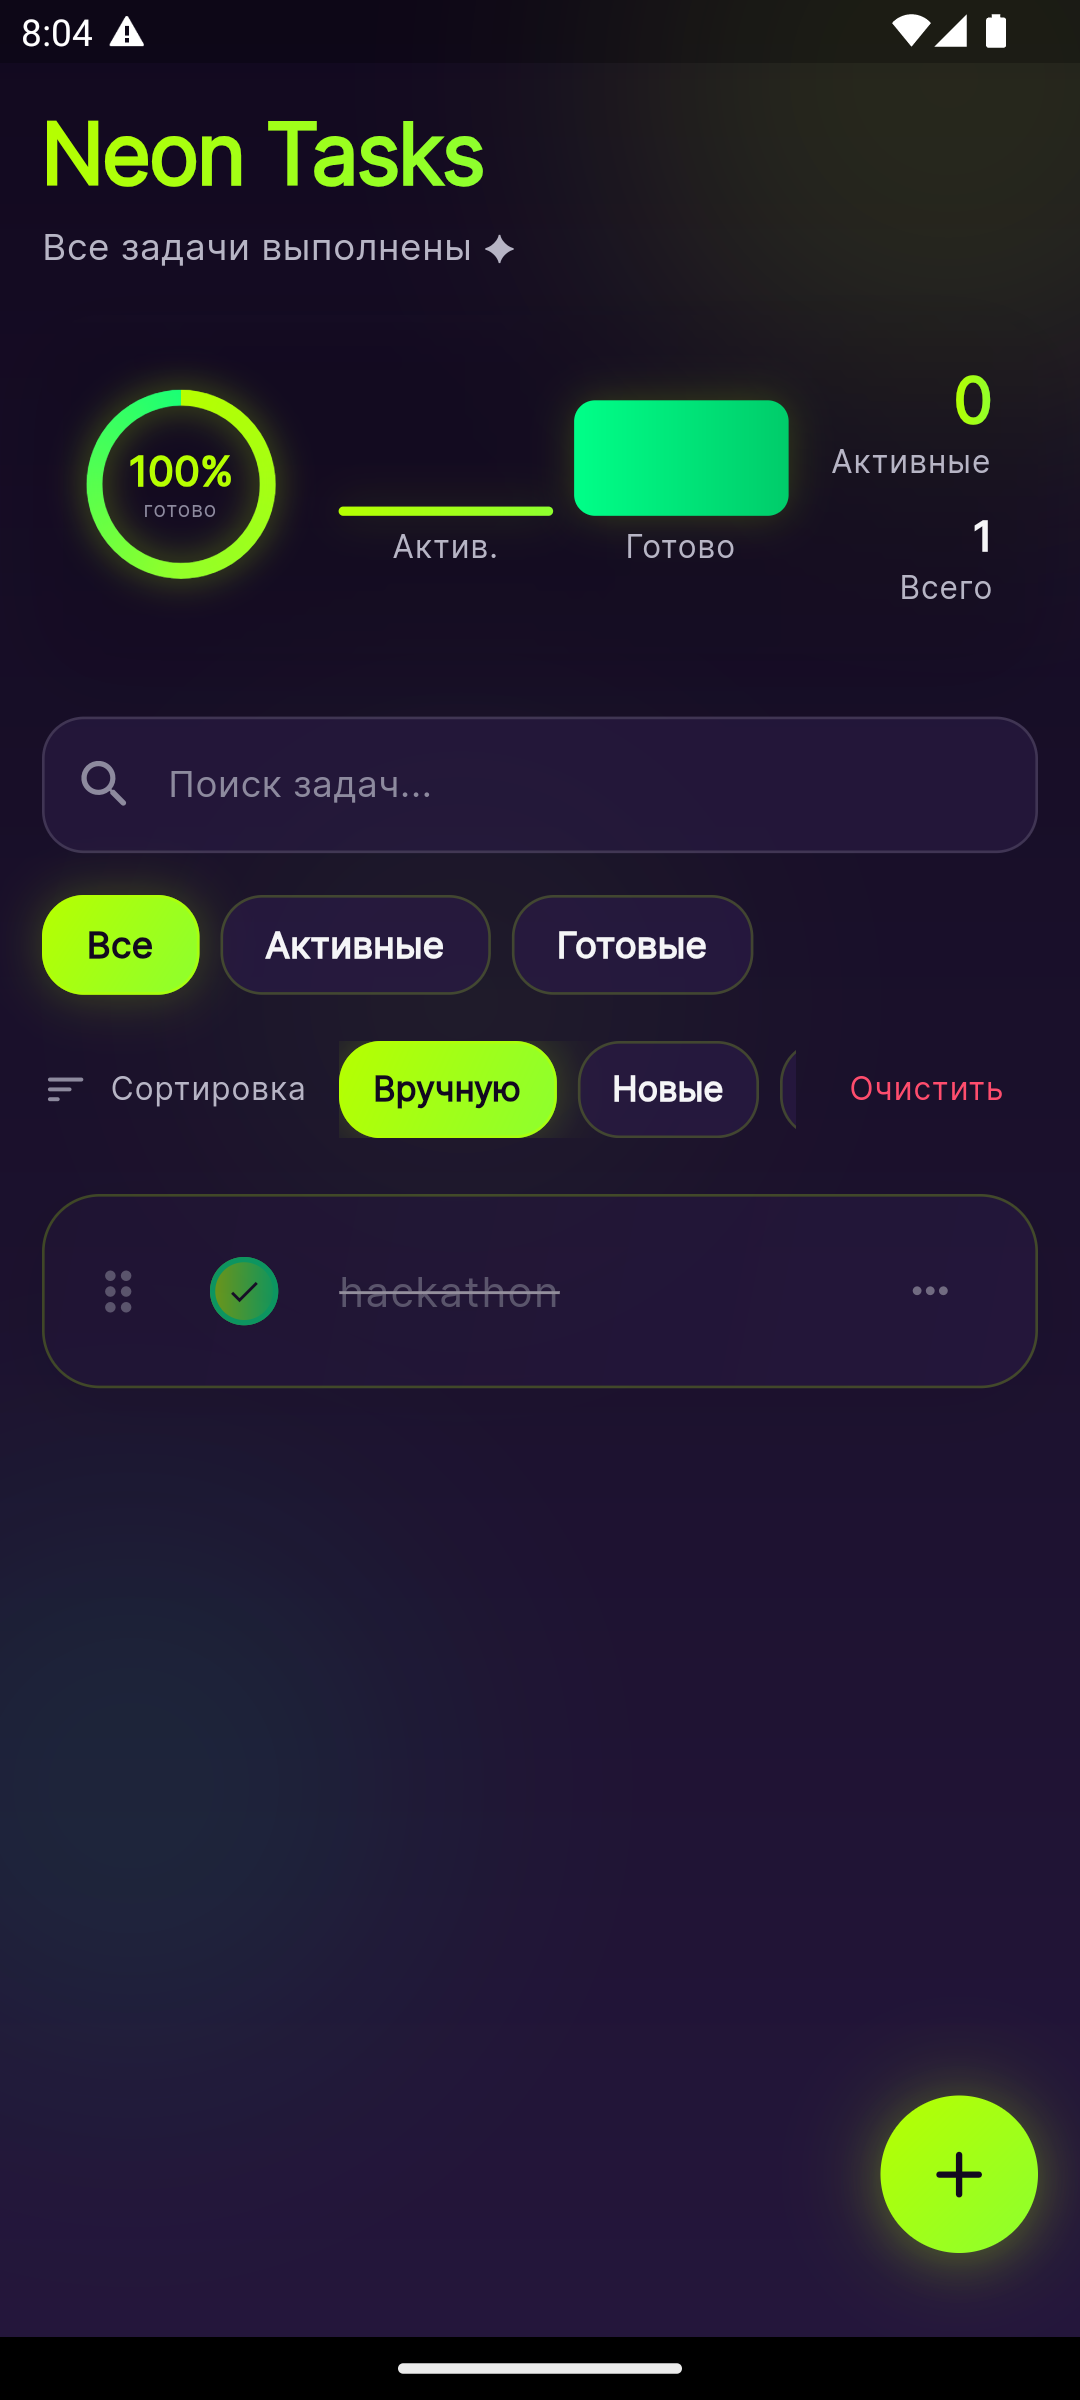
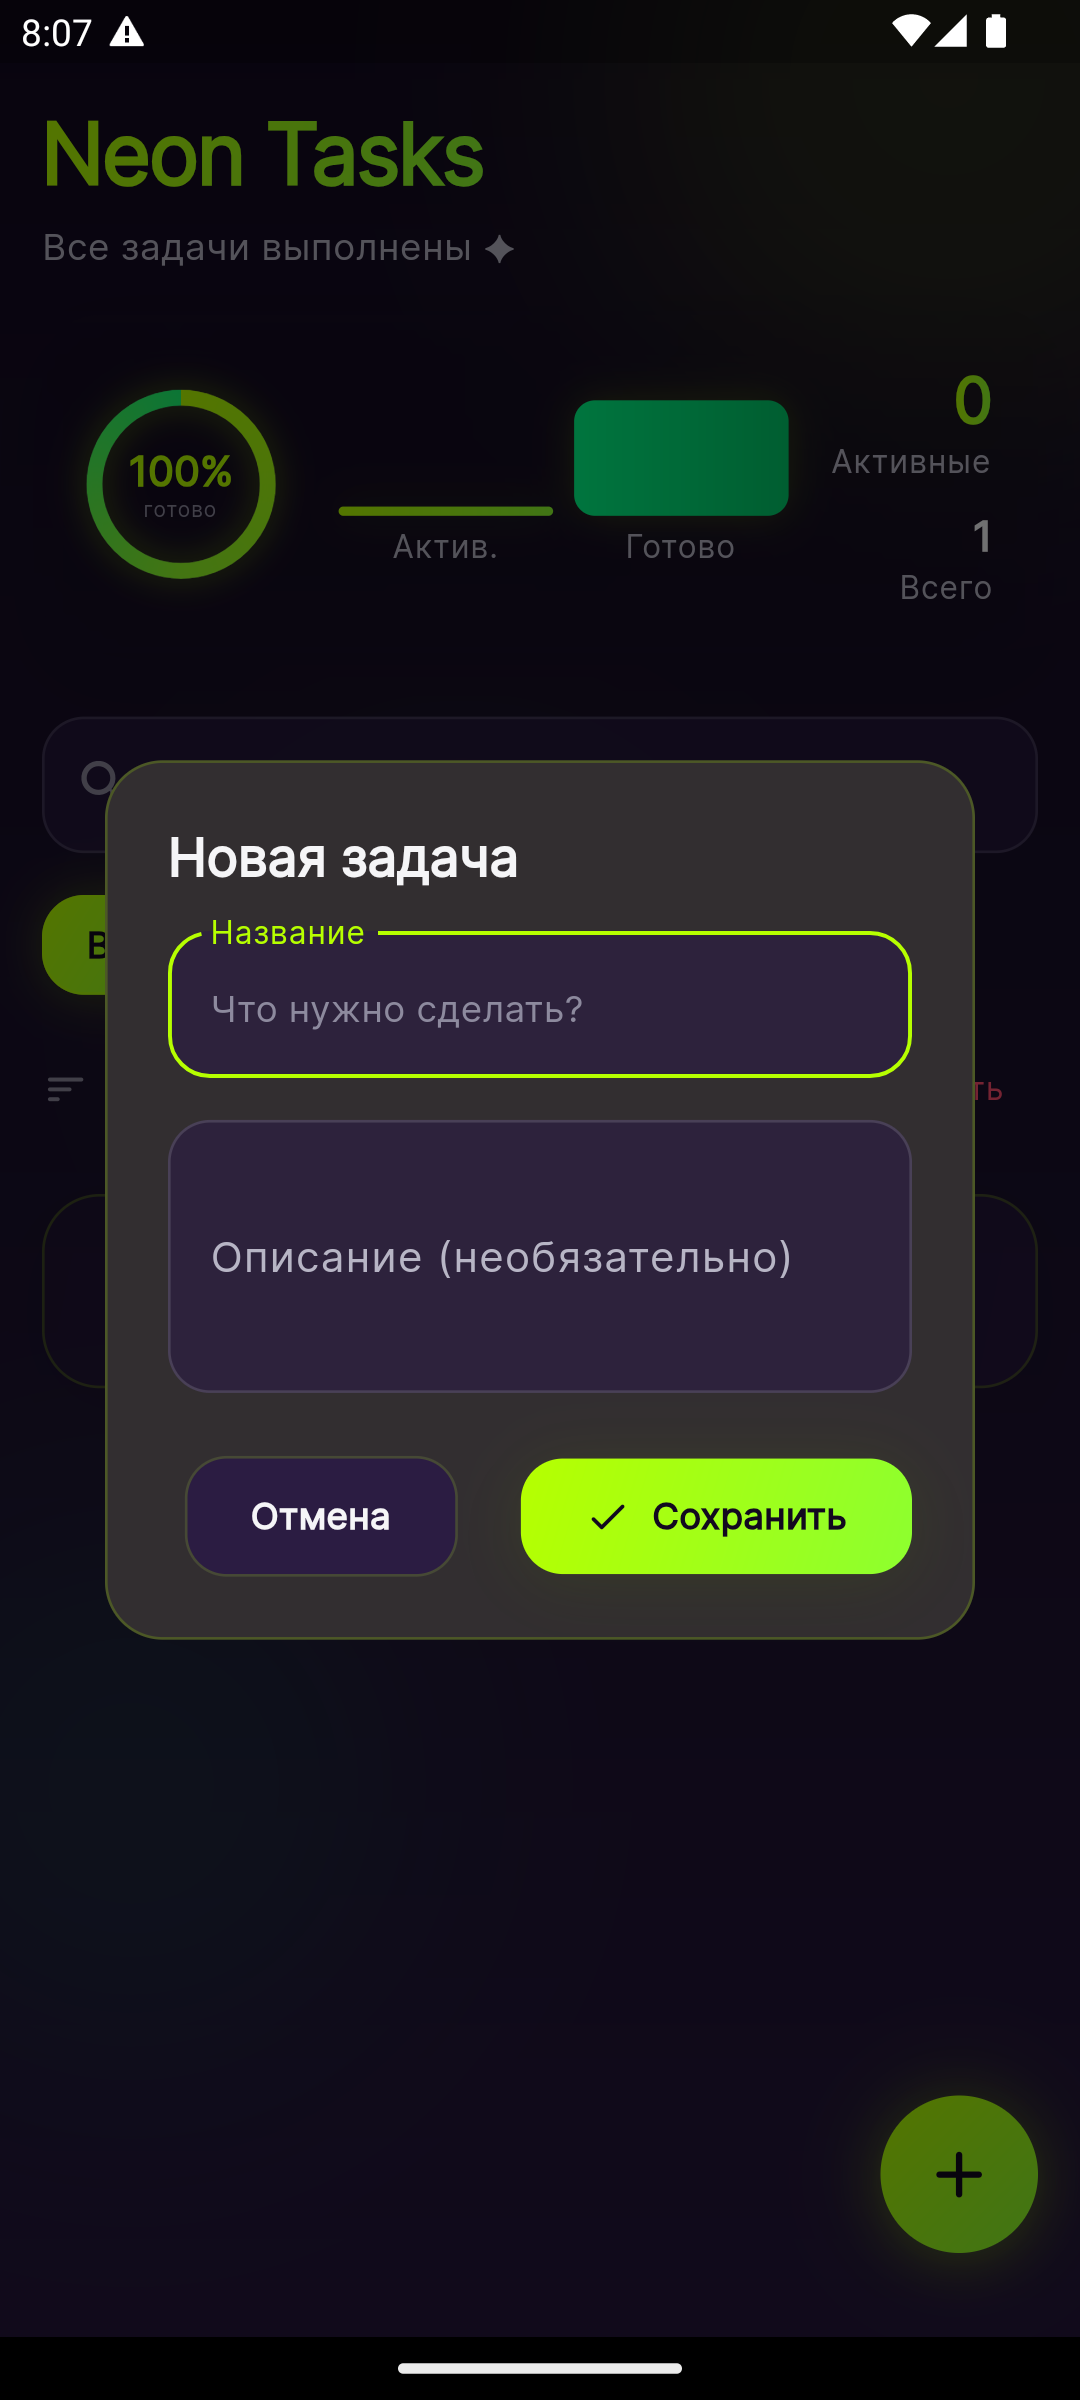
changed readme

diff --git a/README.md b/README.md
@@ -25,8 +25,8 @@
   <img src="docs/screenshots/add-task.png" alt="Добавление задачи" width="280" />
 </p>
 
-| Главный экран | Добавление задачи |
-|:---:|:---:|
+|           Главный экран            |        Добавление задачи        |
+| :--------------------------------: | :-----------------------------: |
 | `docs/screenshots/home-mobile.png` | `docs/screenshots/add-task.png` |
 
 ---
@@ -46,13 +46,13 @@
 
 ## Стек технологий
 
-| Категория | Технологии |
-|-----------|------------|
-| Framework | [Flutter](https://flutter.dev) |
-| State | [Provider](https://pub.dev/packages/provider) |
-| Storage | [shared_preferences](https://pub.dev/packages/shared_preferences) |
-| UI | [google_fonts](https://pub.dev/packages/google_fonts), [flutter_slidable](https://pub.dev/packages/flutter_slidable) |
-| Архитектура | Clean Architecture (domain / data / presentation) |
+| Категория   | Технологии                                                                                                           |
+| ----------- | -------------------------------------------------------------------------------------------------------------------- |
+| Framework   | [Flutter](https://flutter.dev)                                                                                       |
+| State       | [Provider](https://pub.dev/packages/provider)                                                                        |
+| Storage     | [shared_preferences](https://pub.dev/packages/shared_preferences)                                                    |
+| UI          | [google_fonts](https://pub.dev/packages/google_fonts), [flutter_slidable](https://pub.dev/packages/flutter_slidable) |
+| Архитектура | Clean Architecture (domain / data / presentation)                                                                    |
 
 ---
 
@@ -108,4 +108,4 @@ MIT — см. [LICENSE](LICENSE).
 
 ## Автор
 
-**Your Name** · [@YOUR_USERNAME](https://github.com/YOUR_USERNAME)
+**Your Name** · [@amantobae](https://github.com/amantobae)